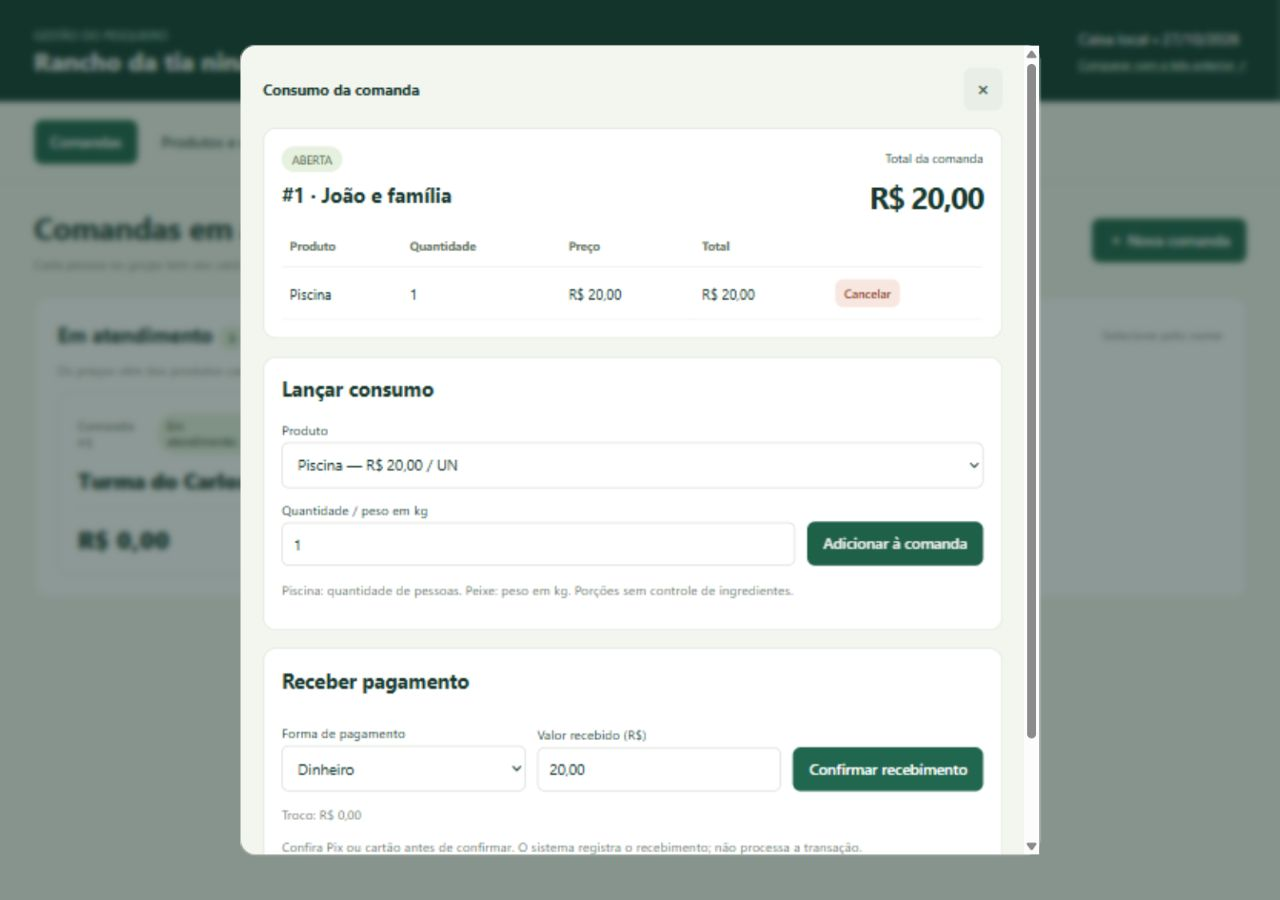
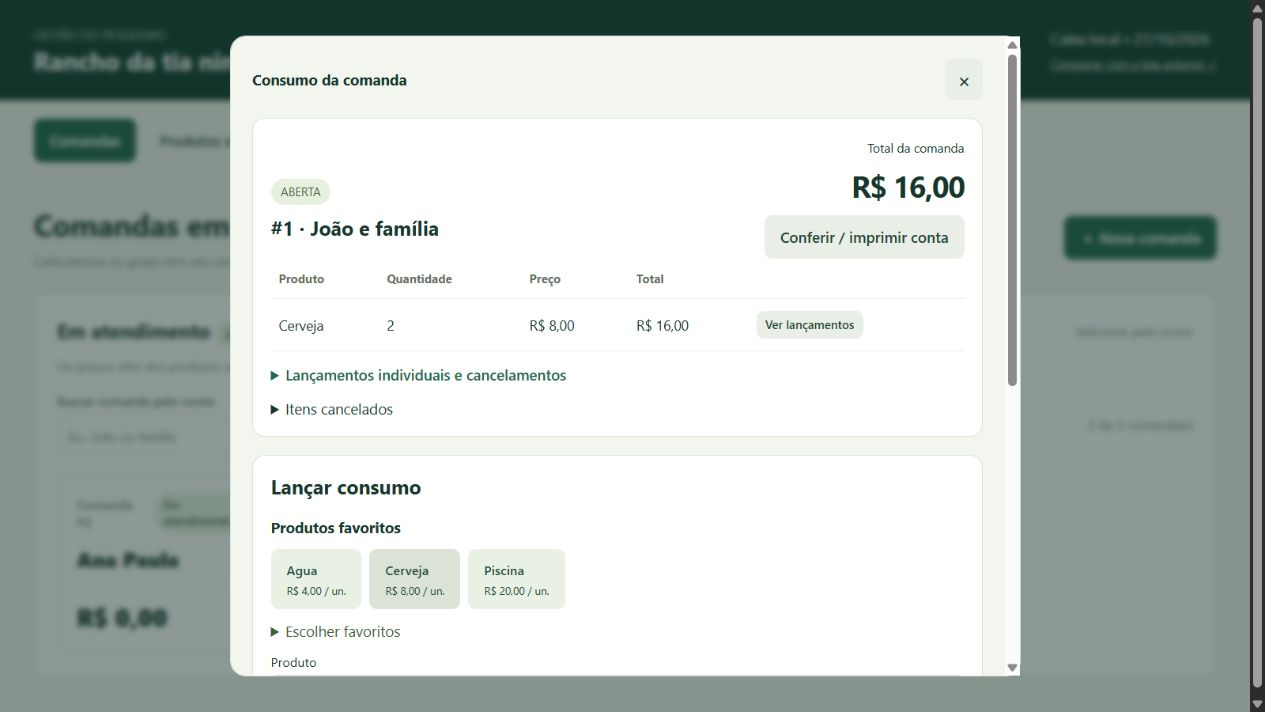
Adiciona busca favoritos agrupamento e conferencia para impressao

diff --git a/melhorias.js b/melhorias.js
@@ -1,0 +1,172 @@
+'use strict';
+
+// Quantidades em milésimos e valores em centavos, como no banco do caixa.
+const PesqueiroUI = {
+    normalizar(texto) {
+        return String(texto ?? '').normalize('NFD').replace(/[\u0300-\u036f]/g, '').toLocaleLowerCase('pt-BR').trim();
+    },
+    corresponde(nome, busca) {
+        return this.normalizar(nome).includes(this.normalizar(busca));
+    },
+    agrupar(itens) {
+        const grupos = new Map();
+        for (const item of itens) {
+            if (item.cancelado) continue;
+            const chave = JSON.stringify([item.produto, item.nome, item.preco]);
+            if (!grupos.has(chave)) grupos.set(chave, {...item, quantidade: 0, total: 0, lancamentos: []});
+            const grupo = grupos.get(chave);
+            grupo.quantidade += item.quantidade;
+            // Soma os valores gravados, preservando arredondamentos por lançamento.
+            grupo.total += item.total;
+            grupo.lancamentos.push(item.id);
+        }
+        return [...grupos.values()];
+    },
+    favoritosSalvos(valor, catalogo) {
+        if (valor === null) return catalogo.slice(0, 6).map(p => p.id);
+        try {
+            const ids = JSON.parse(valor);
+            if (!Array.isArray(ids)) throw Error('Formato inválido');
+            return [...new Set(ids.filter(Number.isInteger))];
+        } catch { return catalogo.slice(0, 6).map(p => p.id); }
+    },
+};
+
+if (typeof module !== 'undefined' && module.exports) module.exports = PesqueiroUI;
+if (typeof document !== 'undefined') (() => {
+    const estilo = document.createElement('style');
+    estilo.textContent = `
+        .search-cards{display:flex;gap:14px;align-items:center;flex-wrap:wrap;margin:16px 0}
+        .search-cards input{max-width:360px}.search-cards label{margin:0;flex:1;min-width:200px}
+        .search-cards label span{display:block;margin-bottom:7px}.quick-products{display:flex;gap:8px;flex-wrap:wrap;margin:12px 0}
+        .quick-products button{text-align:left;background:#e9f1e4;color:#234b3b;font-size:13px;margin-top:0}
+        .quick-products small{display:block;margin-top:5px;font-weight:400}.favorite-settings{margin:12px 0;color:#416039}
+        .favorite-settings label{display:flex;gap:10px;align-items:center}.favorite-settings input{width:auto}
+        .individual-launches{margin:14px 0}.individual-launches summary{cursor:pointer;color:#21664e;font-weight:600}
+        .receipt-actions{display:flex;gap:10px;margin:15px 0;flex-wrap:wrap}.receipt-heading{text-align:center;border-bottom:1px dashed #a8b4a4;padding-bottom:18px}
+        .receipt-heading h2{margin:0 0 8px}.receipt-meta{line-height:1.7;overflow-wrap:anywhere}
+        #receiptDialog{background:white}.receipt-total{display:flex;justify-content:space-between;gap:16px;font-size:24px;font-weight:700;border-top:2px solid #17372d;margin-top:18px;padding-top:15px}
+        #receiptDialog th,#receiptDialog td{font-size:13px}#receiptDialog td:first-child{overflow-wrap:anywhere}
+        #receiptDialog td:last-child,#receiptDialog th:last-child{text-align:right}.receipt-footer{text-align:center;font-size:12px;color:#6e7c70;margin-top:25px}
+        @media print {
+            body:has(#receiptDialog[open]) > :not(#receiptDialog){display:none!important}
+            #receiptDialog[open]{display:block!important;position:static!important;width:100%!important;max-width:none!important;max-height:none!important;overflow:visible!important;border:0!important;padding:0!important;margin:0!important;box-shadow:none!important;color:#000;background:#fff}
+            #receiptDialog::backdrop{display:none!important}#receiptDialog .no-print{display:none!important}
+            #receiptDialog tr{break-inside:avoid}#receiptDialog thead{display:table-header-group}
+        }
+    `;
+    document.head.append(estilo);
+
+    const busca = document.createElement('div');
+    busca.className = 'search-cards';
+    busca.innerHTML = '<label><span>Buscar comanda pelo nome</span><input id="buscaCards" type="search" placeholder="Ex.: João ou família" autocomplete="off"></label><span id="buscaResultado" class="muted" role="status"></span>';
+    $('orders').before(busca);
+    const semResultado = document.createElement('p');
+    semResultado.id = 'semResultadoCards';
+    semResultado.className = 'muted hidden';
+    semResultado.textContent = 'Nenhuma comanda com esse nome. Tente outra parte do nome.';
+    $('orders').after(semResultado);
+
+    function filtrarCards() {
+        const termo = $('buscaCards').value;
+        let encontrados = 0;
+        const nomes = new Map(activeOrders.map(o => [o.id, o.nome]));
+        $('orders').querySelectorAll('[data-order]').forEach(botao => {
+            const visivel = PesqueiroUI.corresponde(nomes.get(Number(botao.dataset.order)), termo);
+            botao.classList.toggle('hidden', !visivel);
+            if (visivel) encontrados++;
+        });
+        $('buscaResultado').textContent = `${encontrados} de ${activeOrders.length} comanda${activeOrders.length === 1 ? '' : 's'}`;
+        $('semResultadoCards').classList.toggle('hidden', !activeOrders.length || encontrados > 0);
+    }
+    $('buscaCards').addEventListener('input', filtrarCards);
+    const atualizarComandas = refreshOrders;
+    refreshOrders = async function() { await atualizarComandas(); filtrarCards(); };
+
+    const atalhos = document.createElement('div');
+    atalhos.innerHTML = '<strong>Produtos favoritos</strong><div id="atalhosProdutos" class="quick-products"></div><details class="favorite-settings"><summary>Escolher favoritos</summary><p class="muted">Marque os produtos que quer ter à mão neste navegador.</p><div id="escolhaFavoritos"></div></details>';
+    $('addItem').querySelector('h2').after(atalhos);
+    const chaveFavoritos = 'pesqueiro.cards.favoritos.v1';
+    let favoritos = null;
+    function lerFavoritos() {
+        let salvo = null;
+        try { salvo = localStorage.getItem(chaveFavoritos); } catch { /* Atalhos funcionam nesta sessão. */ }
+        return PesqueiroUI.favoritosSalvos(salvo, products);
+    }
+    function renderizarAtalhos() {
+        if (favoritos === null) favoritos = lerFavoritos();
+        $('atalhosProdutos').innerHTML = products.filter(p => favoritos.includes(p.id)).map(p =>
+            `<button type="button" data-shortcut="${p.id}">${esc(p.nome)}<small>${money(p.preco)} / ${p.unidade === 'KG' ? 'kg' : 'un.'}</small></button>`
+        ).join('') || '<span class="muted">Use “Escolher favoritos” para adicionar atalhos.</span>';
+        $('atalhosProdutos').querySelectorAll('[data-shortcut]').forEach(b => b.onclick = () => {
+            const produto = products.find(p => p.id === Number(b.dataset.shortcut));
+            if (!produto) return;
+            $('saleProduct').value = String(produto.id);
+            const quantidade = $('addItem').elements.quantidade;
+            quantidade.value = produto.unidade === 'KG' ? '' : '1';
+            quantidade.focus();
+        });
+    }
+    function renderizarFavoritos() {
+        // Não fixa uma seleção vazia antes de o catálogo terminar de carregar.
+        if (!products.length && favoritos === null) return;
+        renderizarAtalhos();
+        $('escolhaFavoritos').innerHTML = products.map(p =>
+            `<label><input type="checkbox" data-favorite="${p.id}" ${favoritos.includes(p.id) ? 'checked' : ''}>${esc(p.nome)}</label>`
+        ).join('');
+        $('escolhaFavoritos').querySelectorAll('[data-favorite]').forEach(c => c.onchange = () => {
+            const id = Number(c.dataset.favorite);
+            favoritos = c.checked ? [...new Set([...favoritos, id])] : favoritos.filter(x => x !== id);
+            try { localStorage.setItem(chaveFavoritos, JSON.stringify(favoritos)); }
+            catch { notify('Favoritos disponíveis nesta sessão. O navegador não permitiu salvar a preferência.'); }
+            renderizarAtalhos();
+        });
+    }
+    const atualizarProdutos = refreshProducts;
+    refreshProducts = async function() { await atualizarProdutos(); renderizarFavoritos(); };
+
+    const individuais = document.createElement('details');
+    individuais.className = 'individual-launches';
+    individuais.id = 'lancamentosIndividuais';
+    individuais.innerHTML = '<summary>Lançamentos individuais e cancelamentos</summary><p class="muted">Cada lançamento continua separado aqui. Cancele apenas o lançamento desejado.</p><div class="scroll"><table><thead><tr><th>Produto</th><th>Quantidade</th><th>Preço</th><th>Total</th><th></th></tr></thead><tbody id="itensIndividuais"></tbody></table></div>';
+    $('items').closest('.scroll').after(individuais);
+    const mostrarConta = document.createElement('button');
+    mostrarConta.type = 'button';
+    mostrarConta.id = 'conferirConta';
+    mostrarConta.className = 'secondary';
+    mostrarConta.textContent = 'Conferir / imprimir conta';
+    $('orderTotal').parentElement.append(mostrarConta);
+
+    function renderizarGrupos() {
+        if (!current) return;
+        // Move os nós originais, preservando os botões e eventos de cancelamento.
+        $('itensIndividuais').replaceChildren(...$('items').childNodes);
+        const grupos = PesqueiroUI.agrupar(current.itens);
+        $('items').innerHTML = grupos.map(g => `<tr><td>${esc(g.nome)}</td><td>${qty(g.quantidade)}</td><td>${money(g.preco)}</td><td>${money(g.total)}</td><td>${current.status === 'ABERTA' ? '<button type="button" class="secondary" data-launches>Ver lançamentos</button>' : ''}</td></tr>`).join('') || '<tr><td colspan="5">Nenhum consumo lançado.</td></tr>';
+        $('items').querySelectorAll('[data-launches]').forEach(b => b.onclick = () => {
+            individuais.open = true;
+            individuais.scrollIntoView({behavior: 'smooth', block: 'nearest'});
+        });
+        individuais.classList.toggle('hidden', !current.itens.some(i => !i.cancelado));
+    }
+    const desenharComanda = renderOrder;
+    renderOrder = function() { desenharComanda(); renderizarGrupos(); renderizarFavoritos(); };
+
+    const recibo = document.createElement('dialog');
+    recibo.id = 'receiptDialog';
+    recibo.className = 'order-dialog';
+    recibo.setAttribute('aria-labelledby', 'tituloConta');
+    recibo.innerHTML = '<div class="dialog-heading no-print"><h2 id="tituloConta">Conferência da conta</h2><button type="button" id="fecharConta" class="secondary" aria-label="Voltar ao consumo">Voltar</button></div><div id="conteudoConta"></div><div class="receipt-actions no-print"><button type="button" id="imprimirConta">Imprimir / salvar PDF</button><button type="button" id="voltarConta" class="secondary">Voltar ao consumo</button></div>';
+    document.body.append(recibo);
+    $('fecharConta').onclick = $('voltarConta').onclick = () => recibo.close();
+    $('imprimirConta').onclick = () => window.print();
+    mostrarConta.onclick = () => {
+        if (!current) return;
+        const grupos = PesqueiroUI.agrupar(current.itens);
+        const unidade = id => products.find(p => p.id === id)?.unidade === 'KG' ? ' kg' : '';
+        $('conteudoConta').innerHTML = `<div class="receipt-heading"><h2>Rancho da tia nina</h2><span>Conferência de consumo</span></div><div class="receipt-meta"><p><strong>${esc(current.nome)}</strong><br>Comanda #${current.id}${current.mesa ? ' · Mesa ' + esc(current.mesa) : ''}<br>Aberta em ${esc(new Date(current.aberta).toLocaleString('pt-BR'))}<br>Situação: ${current.status === 'PAGA' ? 'Paga' : 'Em aberto'}</p></div><table><thead><tr><th>Produto</th><th>Qtd.</th><th>Preço un.</th><th>Subtotal</th></tr></thead><tbody>${grupos.map(g => `<tr><td>${esc(g.nome)}</td><td>${qty(g.quantidade)}${unidade(g.produto)}</td><td>${money(g.preco)}</td><td>${money(g.total)}</td></tr>`).join('') || '<tr><td colspan="4">Nenhum consumo lançado.</td></tr>'}</tbody></table><div class="receipt-total"><span>Total</span><span>${money(current.total)}</span></div>${current.status === 'PAGA' ? `<p>Pagamento: ${esc(current.forma)}<br>Recebido: ${money(current.recebido)} · Troco: ${money(current.troco)}</p>` : '<p class="receipt-footer">Conta em aberto. A conferência não registra pagamento.</p>'}<p class="receipt-footer">Obrigado pela visita!</p>`;
+        recibo.showModal();
+    };
+    filtrarCards();
+    renderizarFavoritos();
+})();

diff --git a/caixa.html b/caixa.html
@@ -116,4 +116,4 @@ for(const id of ['orderDialog','newOrderDialog'])$(id).addEventListener('cancel'
 /* /CARDS_DIALOG */
 async function refreshAll(){await Promise.all([refreshProducts(),refreshOrders(),refreshMoves(),refreshCash()])}
 (async()=>{const d=new Date();$('today').textContent=d.toLocaleDateString('pt-BR');$('cashDate').value=[d.getFullYear(),String(d.getMonth()+1).padStart(2,'0'),String(d.getDate()).padStart(2,'0')].join('-');token=(await api('sessao')).token;await refreshAll()})().catch(e=>notify('Não foi possível carregar o caixa: '+e.message));
-</script></body></html>
+</script><script src="/melhorias.js"></script></body></html>

diff --git a/tests/test_cards_layout.py b/tests/test_cards_layout.py
@@ -38,3 +38,11 @@ def test_cards_centrais_abrem_consumo_com_preco_do_catalogo():
     assert 'id="saleProduct"' in modal
     assert 'name="preco"' not in modal
     assert 'id="backToCards"' in modal
+
+
+def test_impressao_mostra_so_a_conferencia_aberta():
+    script = (ROOT / 'melhorias.js').read_text(encoding='utf-8')
+    assert "window.print()" in script
+    assert 'body:has(#receiptDialog[open]) > :not(#receiptDialog)' in script
+    assert '#receiptDialog .no-print{display:none!important}' in script
+    assert 'break-inside:avoid' in script

diff --git a/caixa.py b/caixa.py
@@ -179,6 +179,12 @@ def home():
 def classic():
     return FileResponse(ROOT / 'caixa-classico.html', headers={'Cache-Control': 'no-store'})
 
+
+@app.get('/melhorias.js', include_in_schema=False)
+def improvements():
+    return FileResponse(ROOT / 'melhorias.js', media_type='application/javascript',
+                        headers={'Cache-Control': 'no-store'})
+
 @app.get('/api/sessao')
 def session():
     return JSONResponse({'token': TOKEN}, headers={'Cache-Control': 'no-store'})

diff --git a/README.md b/README.md
@@ -10,6 +10,16 @@ Esta versão mantém o caixa completo do [Projeto-Pesqueiro de IgorCouto7](https
 
 Os cards usam o nome da pessoa ou do grupo. Clique em **Nova comanda** para abrir um atendimento só pelo nome, sem numerar mesas. Os preços são definidos na aba **Produtos e estoque**, não durante o lançamento.
 
+## Agilidade no atendimento
+
+- **Busca por nome:** filtra os cards, inclusive quando você digita sem acentos.
+- **Produtos favoritos:** atalhos para selecionar um produto e informar a quantidade. Use “Escolher favoritos” para marcar os atalhos; a preferência fica salva neste navegador.
+- **Consumo agrupado:** produtos iguais com o mesmo preço aparecem somados. Preços históricos diferentes continuam em linhas separadas. Os subtotais são somados como foram registrados, inclusive em vendas por peso.
+- **Lançamentos individuais:** continuam disponíveis para conferir ou cancelar apenas um lançamento. Cancelamentos também permanecem no histórico.
+- **Conferir / imprimir conta:** abre uma conta limpa com quantidades, preços e total, com opção de imprimir ou salvar PDF pelo navegador. Conferir ou imprimir não registra pagamento.
+
+![Conferência com dados fictícios](previa-conferencia.png)
+
 ![Prévia com dados fictícios](previa-cards.png)
 
 ## Instalar e abrir no Windows
@@ -30,7 +40,7 @@ Consulte o [guia completo do caixa](GUIA-DO-CAIXA.md).
 ```sh
 python -m pip install -r requirements-dev.txt
 python -m pytest
-node --test tests/cards.test.cjs
+node --test tests/cards.test.cjs tests/melhorias.test.cjs
 python iniciar.py
 ```
 
